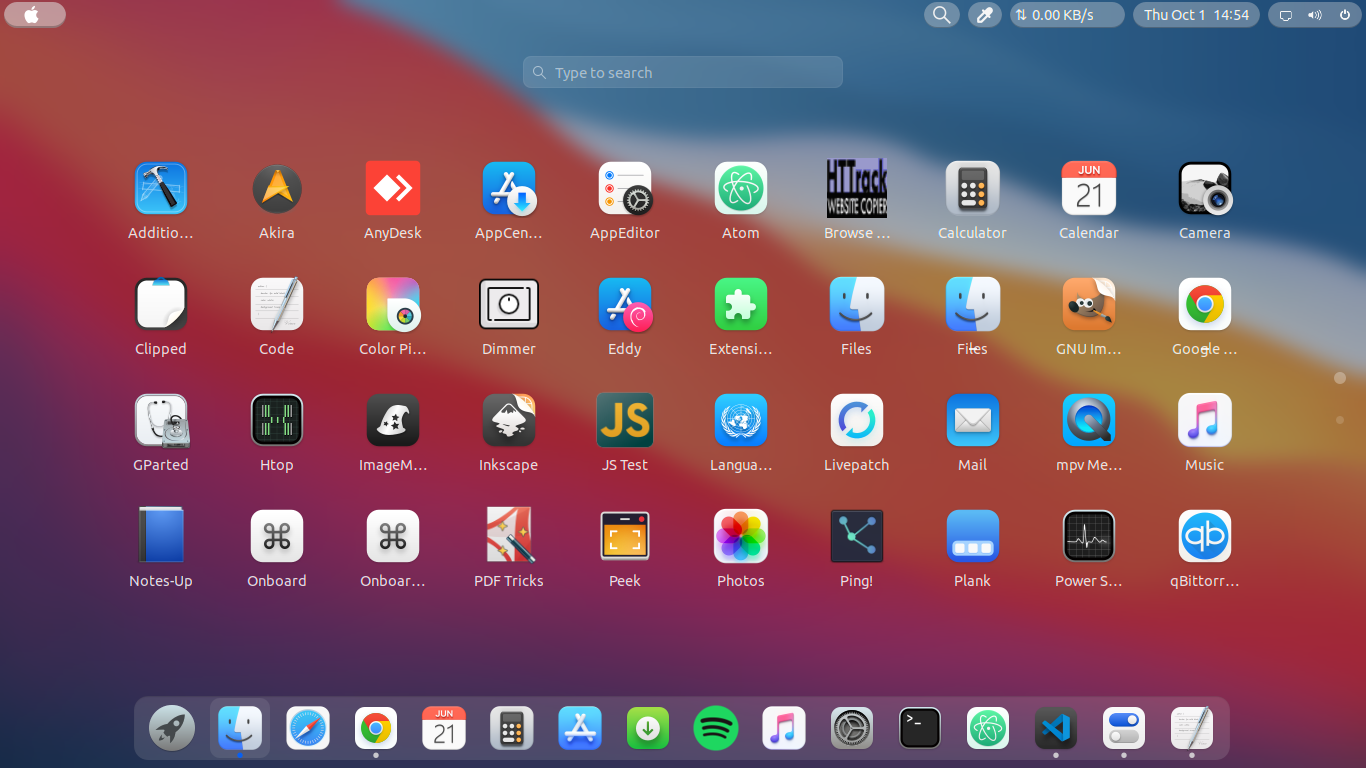
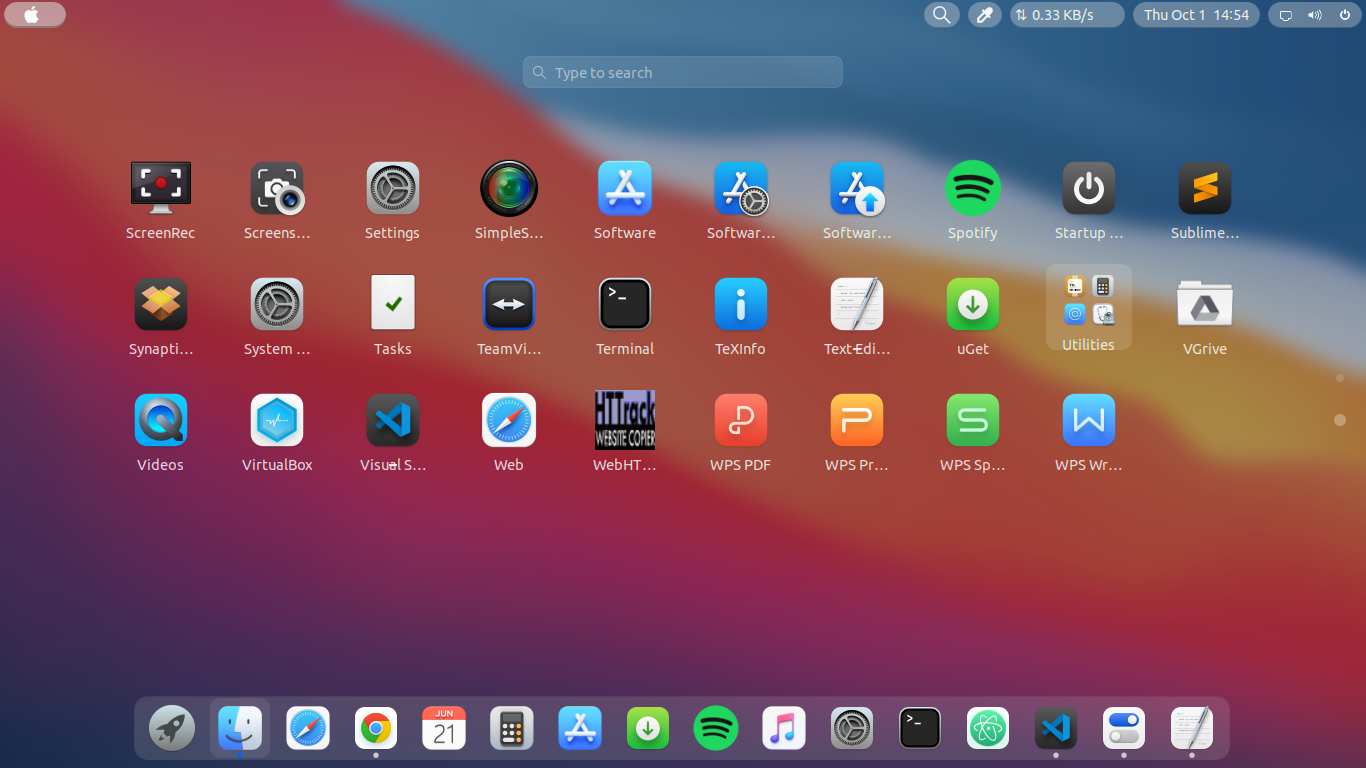
1.0

diff --git a/README.md b/README.md
@@ -16,4 +16,4 @@ To install themes :
 ![BigSur-Originals](preview/1.png?raw=true)
 ![BigSur-Originals](preview/2.png?raw=true)
 ![BigSur-Originals](preview/3.png?raw=true)
-
+![BigSur-Originals](preview/4.png?raw=true)
